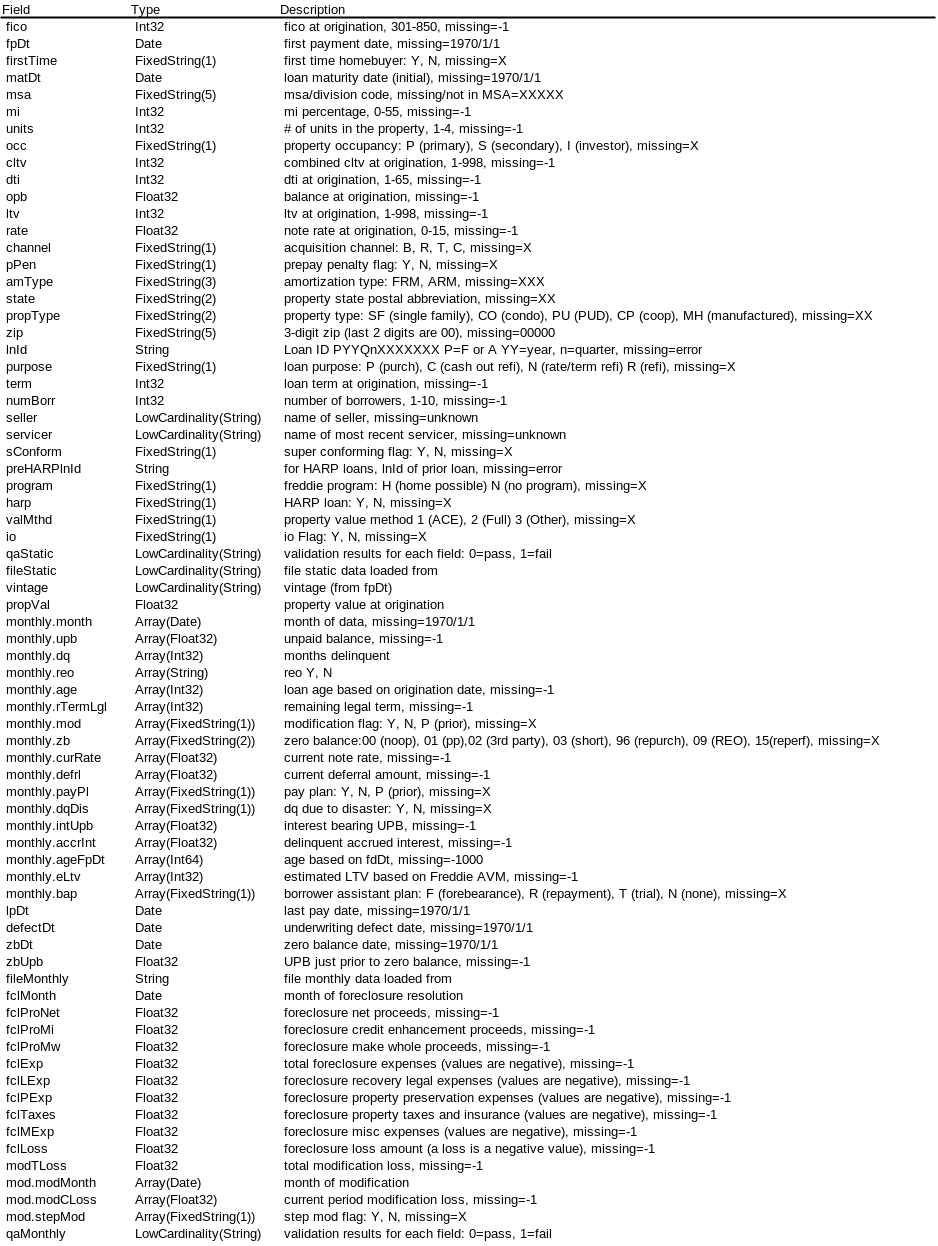
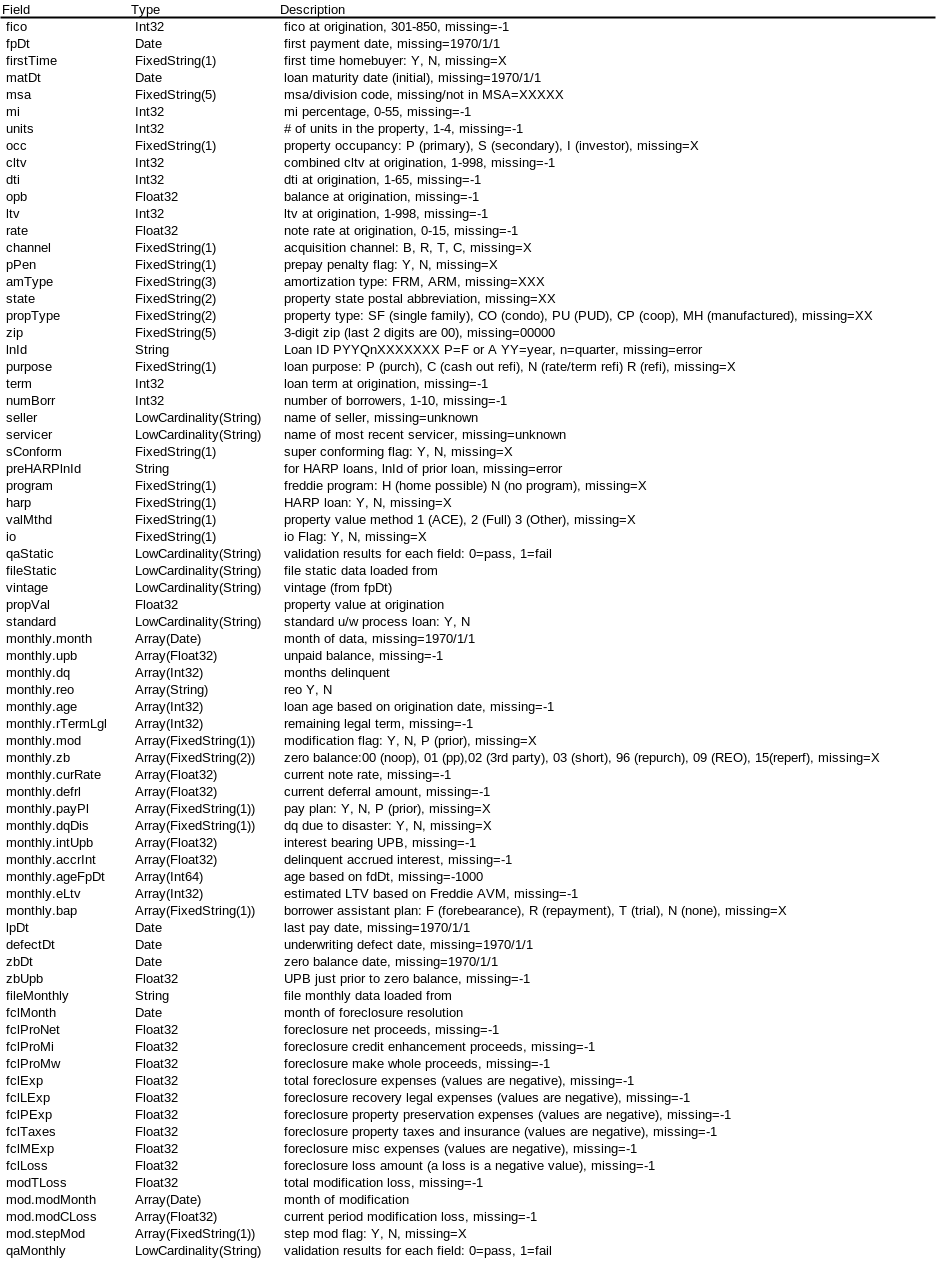
added additional command line parameters, added comments added field 'standard'

Changed region(s): [[0.0, 0.0, 0.9893, 1.0], [0.6183, 0.0915, 0.742, 0.122]]

diff --git a/freddie.go b/freddie.go
@@ -1,4 +1,4 @@
-// package main.  This package imports the loan-level residential mortgage data provided by Freddie Mac into ClickHouse.
+// package freddie.  This package imports the loan-level residential mortgage data provided by Freddie Mac into ClickHouse.
 // The data is available here: https://www.freddiemac.com/research/datasets/sf-loanlevel-dataset.
 //
 // The final result is a single data with nested arrays for time-varying fields.
@@ -6,30 +6,39 @@
 //   - The data is subject to QA.  The results are presented as two string fields in a KeyVal format.
 //   - A "DESCRIBE" of the output table provides info on each field
 //   - New fields created are:
+//      - vintage (e.g. 2010Q2)
+//      - standard - Y/N flag, Y=standard process loan
 //      - loan age based on first pay date
 //      - numeric dq field
 //      - reo flag
-//      - vintage (e.g. 2010Q2)
 //      - property value at origination
 //      - file names from which the loan was loaded
 //      - QA results
 //           - There are two fields -- one for monthly data and one for static data.
-//           - The QA results are in keyval format: <field name>:<result>.  result: 0 if pass, 1 if fail.
+//           - The QA results are in keyval format: <field name>:<result>.  result: 0 if passes, 1 if fails.
+//           - The flag is set to 1 if any of the values of a monthly field fails.
 //
 // command-line parameters:
-//   -host  ClickHouse IP address
-//   -user  ClickHouse user
-//   -password ClickHouse password for user
-//   -table ClickHouse table in which to insert the data
-//   -create if Y, then the table is created/reset.
-//   -dir directory with Freddie Mac text files
-//   -tmp ClickHouse database to use for temporary tables
+//   -host  ClickHouse IP address. Default: 127.0.0.1.
+//   -user  ClickHouse user. Default: default
+//   -password ClickHouse password for user. Default: <empty>.
+//   -table ClickHouse table in which to insert the data.
+//   -create if Y, then the table is created/reset. Default: Y.
+//   -dir directory with Freddie Mac text files.
+//   -tmp ClickHouse database to use for temporary tables.
+//   -concur # of concurrent processes to use in loading monthly files. Default: 1.
+//   -memory max memory usage by ClickHouse.  Default: 40000000000.
+//   -groupby max_bytes_before_external_groupby ClickHouse paramter. Default: 20000000000.
 //
 // Since the standard and non-standard datasets have the same format, this utility can be used to create tables
 // using either source.  A combined table can be built by running the app twice pointing to the same -table.
 // On the first run, set -create Y and set -create N for the second run.
 //
 // Look at the example in the joined package for the DESCRIBE output of the table.
+//
+// Note that the table produced by this package has slightly fewer loans than the check figures provided by Freddie.
+// The difference seems to be that there are some loans in the static file that are not in the monthly file.
+// With data through 2021Q3, this totals 1484 standard loans (HARP and non-HARP), and 207 non-standard loans.
 package main
 
 import (
@@ -48,12 +57,15 @@ import (
 func main() {
 	var err error
 	host := flag.String("host", "127.0.0.1", "string")
-	user := flag.String("user", "", "string")
+	user := flag.String("user", "default", "string")
 	password := flag.String("password", "", "string")
 	srcDir := flag.String("dir", "", "string")
 	create := flag.String("create", "Y", "string")
 	table := flag.String("table", "", "string")
 	tmp := flag.String("tmp", "", "string")
+	nConcur := flag.Int("concur", 1, "int")
+	max_memory := flag.Int64("memory", 40000000000, "int64")
+	max_groupby := flag.Int64("groupby", 20000000000, "int64")
 
 	// Each quarter of data consists of two files: one for static data, one for monthly data
 	type filePair struct {
@@ -68,8 +80,8 @@ func main() {
 	}
 	// connect to ClickHouse
 	con, err := chutils.NewConnect(*host, *user, *password, clickhouse.Settings{
-		"max_memory_usage":                   40000000000,
-		"max_bytes_before_external_group_by": 20000000000,
+		"max_memory_usage":                   *max_memory,
+		"max_bytes_before_external_group_by": *max_groupby,
 	})
 	if err != nil {
 		log.Fatalln(err)
@@ -119,10 +131,9 @@ func main() {
 	start := time.Now()
 	createTable := *create == "Y" || *create == "y"
 	for ind, k := range keys {
-		if e := joined.Load(fileList[k].Monthly, fileList[k].Static, *table, *tmp, createTable, con); e != nil {
+		if e := joined.Load(fileList[k].Monthly, fileList[k].Static, *table, *tmp, createTable, *nConcur, con); e != nil {
 			log.Fatalln(e)
 		}
-
 		createTable = false
 		fmt.Printf("Done with quarter %s. %d out of %d \n", k, ind+1, len(keys))
 	}

diff --git a/joined/joined.go b/joined/joined.go
@@ -7,20 +7,22 @@ import (
 	s "github.com/invertedv/chutils/sql"
 	mon "github.com/invertedv/freddie/monthly"
 	stat "github.com/invertedv/freddie/static"
-	"log"
 	"strings"
 )
 
-func Load(monthly string, static string, table string, tmpDB string, create bool, con *chutils.Connect) error {
+// func Load loads the monthly and static files into tmpDB.monthly & tmpDB.static, then joins them and inserts
+// the output into "table".  If create="Y", table is created/reset.  The monthly file is read/loaded using
+// nConcur processes.
+func Load(monthly string, static string, table string, tmpDB string, create bool, nConcur int, con *chutils.Connect) error {
 	// load static data into temp table
 	tmpStatic := tmpDB + ".static"
-	if err := stat.LoadRaw(static, tmpStatic, true, con); err != nil {
-		log.Fatalln(err)
+	if e := stat.LoadRaw(static, tmpStatic, true, con); e != nil {
+		return e
 	}
 	// load monthly data into temp table
 	tmpMonthly := tmpDB + ".monthly"
-	if err := mon.LoadRaw(monthly, tmpMonthly, true, 12, con); err != nil {
-		log.Fatalln(err)
+	if e := mon.LoadRaw(monthly, tmpMonthly, true, nConcur, con); e != nil {
+		return e
 	}
 
 	// fill in placeholders in the JOIN query
@@ -30,7 +32,7 @@ func Load(monthly string, static string, table string, tmpDB string, create bool
 	srdr := s.NewReader(qryUse, con)
 	// initialize the TableDef
 	if e := srdr.Init("lnId", chutils.MergeTree); e != nil {
-		log.Fatalln(e)
+		return e
 	}
 	// fill in the descriptions of the fields
 	for _, fd := range srdr.TableSpec().FieldDefs {
@@ -40,6 +42,7 @@ func Load(monthly string, static string, table string, tmpDB string, create bool
 		if _, fd1, e := mon.TableDef.Get(fd.Name); e == nil {
 			fd.Description = fd1.Description
 		}
+		// new fields
 		switch fd.Name {
 		case "modMonth":
 			fd.Description = "month of modification"
@@ -47,6 +50,8 @@ func Load(monthly string, static string, table string, tmpDB string, create bool
 			fd.Description = "month of foreclosure resolution"
 		case "ageFpDt":
 			fd.Description = "age based on fdDt, missing=-1000"
+		case "standard":
+			fd.Description = "standard u/w process loan: Y, N"
 		case "qaMonthly":
 			fd.ChSpec.Funcs = chutils.OuterFuncs{chutils.OuterLowCardinality}
 		case "valStatic":
@@ -55,29 +60,30 @@ func Load(monthly string, static string, table string, tmpDB string, create bool
 	}
 	// Nested arrays for the monthly data
 	if e := srdr.TableSpec().Nest("monthly", "month", "bap"); e != nil {
-		log.Fatalln(e)
+		return e
 	}
 	// Nested arrays for modifications data
 	if e := srdr.TableSpec().Nest("mod", "modMonth", "stepMod"); e != nil {
-		log.Fatalln(e)
+		return e
 	}
 
 	srdr.Name = table
 	if create {
 		if e := srdr.TableSpec().Create(con, srdr.Name); e != nil {
-			log.Fatalln(e)
+			return e
 		}
 	}
 	// Insert the data into the table
 	if e := srdr.Insert(); e != nil {
-		log.Fatalln(e)
+		return e
 	}
+
 	// clean up
 	if _, e := con.Exec(fmt.Sprintf("DROP TABLE %s", tmpStatic)); e != nil {
-		log.Fatalln(e)
+		return e
 	}
 	if _, e := con.Exec(fmt.Sprintf("DROP TABLE %s", tmpMonthly)); e != nil {
-		log.Fatalln(e)
+		return e
 	}
 
 	return nil
@@ -115,6 +121,7 @@ FROM(
 GROUP BY lnId))
 SELECT
     s.*,
+    position(fileStatic, 'excl') = 0 ? 'Y' : 'N' AS standard,
     m.month,
     m.upb,
 //    m.dqStat,
@@ -208,5 +215,3 @@ ON s.lnId = m.lnId
 JOIN v
 ON s.lnId = v.lnId
 `
-
-//TODO - change defers to funcs with _ = xyz.Close() to get it to stop complaining

diff --git a/monthly/monthly.go b/monthly/monthly.go
@@ -7,21 +7,19 @@ import (
 	"github.com/invertedv/chutils/file"
 	"github.com/invertedv/chutils/nested"
 	s "github.com/invertedv/chutils/sql"
-	"log"
 	"os"
 	"strconv"
 	"time"
 )
 
+// TableDef is TableDef for the monthly table.  It is exported as other packages (e.g. joined) may need fields from
+// it (e.g. Description)
 var TableDef *chutils.TableDef
 
 // LoadRaw loads the raw monthly series from sourceFile into "table".  The table is created/reset if create=true.
 // The file is loaded using nConcur concurrent processes.  con is the ClickHouse connector.
 func LoadRaw(sourceFile string, table string, create bool, nConcur int, con *chutils.Connect) (err error) {
 	fileName = sourceFile
-	if err != nil {
-		log.Fatalln(err)
-	}
 
 	f, err := os.Open(fileName)
 	if err != nil {
@@ -56,11 +54,6 @@ func LoadRaw(sourceFile string, table string, create bool, nConcur int, con *chu
 	// rdrsn is a slice of nested readers -- needed since we are adding fields to the raw data
 	rdrsn := make([]chutils.Input, 0)
 	for j, r := range rdrs {
-		defer func() {
-			if e := r.Close(); e != nil && err == nil {
-				err = e
-			}
-		}()
 
 		rn, e := nested.NewReader(r, xtraFields(), newCalcs)
 		if e != nil {

diff --git a/joined/joined_test.go b/joined/joined_test.go
@@ -23,9 +23,9 @@ func ExampleLoad() {
 	if err != nil {
 		log.Fatalln(err)
 	}
-	var name, ftype, default_type, default_expression, comment, n1, n2 string
+	var name, ftype, defaultType, defaultExpression, comment, n1, n2 string
 	for rows.Next() {
-		if e := rows.Scan(&name, &ftype, &default_type, &default_expression, &comment, &n1, &n2); e != nil {
+		if e := rows.Scan(&name, &ftype, &defaultType, &defaultExpression, &comment, &n1, &n2); e != nil {
 			log.Fatalln(e)
 		}
 		s := strings.TrimRight(fmt.Sprintf("%-20s %-25s %s", name, ftype, comment), " ")
@@ -68,6 +68,7 @@ func ExampleLoad() {
 	//fileStatic           LowCardinality(String)    file static data loaded from
 	//vintage              LowCardinality(String)    vintage (from fpDt)
 	//propVal              Float32                   property value at origination
+	//standard             LowCardinality(String)    standard u/w process loan: Y, N
 	//monthly.month        Array(Date)               month of data, missing=1970/1/1
 	//monthly.upb          Array(Float32)            unpaid balance, missing=-1
 	//monthly.dq           Array(Int32)              months delinquent

diff --git a/static/static.go b/static/static.go
@@ -11,11 +11,12 @@ import (
 	"time"
 )
 
-// TableDef is the *chutils.TableDef of the nested reader
+// TableDef is TableDef for the static table.  It is exported as other packages (e.g. joined) may need fields from
+// it (e.g. Description)
 var TableDef *chutils.TableDef
 
-// LoadRaw loads the static data "filen" into "table".  The table is created/reset if create=true. con is the
-// connector to ClickHouse.
+// LoadRaw loads the static data from file sourceFile into "table".  The table is created/reset if create=true. con
+//is the connector to ClickHouse.
 func LoadRaw(sourceFile string, table string, create bool, con *chutils.Connect) (err error) {
 	fileName = sourceFile // fileName is global to the package so we have it to add as a field
 

diff --git a/README.md b/README.md
@@ -4,32 +4,40 @@ are held in nested arrays in this table.
 
 The package performs QA on the data as well as adding a handful of extra fields:
 
+    - vintage (e.g. 2010Q2)
+    - standard - Y/N field, Y = standard process loan
     - loan age based on first pay date
     - numeric dq field
     - reo flag
-    - vintage (e.g. 2010Q2)
     - property value at origination
     - file names from which the loan was loaded
     - QA results
          - There are two fields -- one for monthly data and one for static data.
          - The QA results are in keyval format: <field name>:<result>.  result: 0 if pass, 1 if fail.
+         - The flag is set to 1 if any of the values of a monthly field fails.
 
 The command-line parameters are:
 
     -host   
-        ClickHouse IP address
+        ClickHouse IP address. Default value: 127.0.0.1
     -user <user>
         ClickHouse user
     -password <password>
-        ClickHouse password for user
+        ClickHouse password for user. Default value: default
     -table <db.table>
-       ClickHouse table in which to insert the data
+       ClickHouse table in which to insert the data. Default value: <none>
     -create <Y|N>
-        if Y, then the table is created/reset.
+        if Y, then the table is created/reset. Default value: Y
     -dir <path>
         directory with Freddie Mac text files
     -tmp <db>
         ClickHouse database to use for temporary tables
+    - concur <num>
+        # of concurrent processes to use in loading monthly files. Default value: 1
+    -memory <numb>
+        max memory usage by ClickHouse.  Default: 40000000000.
+    -groupby <num> 
+        max_bytes_before_external_groupby ClickHouse paramter. Default: 20000000000.
 
 Since the standard and non-standard data provided by Freddie Mac have the same format, both sets can be imported
 by this code either as a single table or two tables.  To create a single table, run the app with 
@@ -46,4 +54,5 @@ A "DESCRIBE" of the table created by this package is yeidls:
 
 ![img.png](fields.png)
 
-The Freddie data is available [here](https://www.freddiemac.com/research/datasets/sf-loanlevel-dataset).
+
+The data is available [here](https://www.freddiemac.com/research/datasets/sf-loanlevel-dataset).
